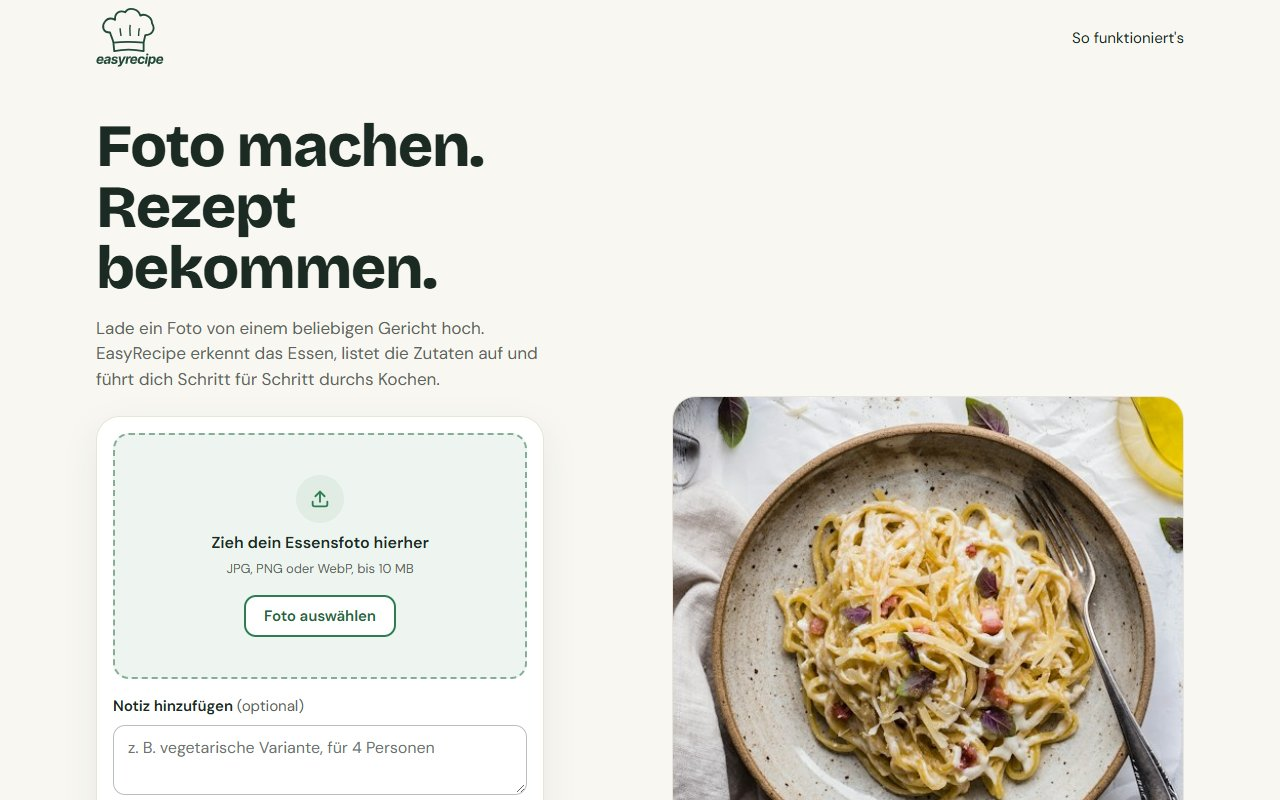
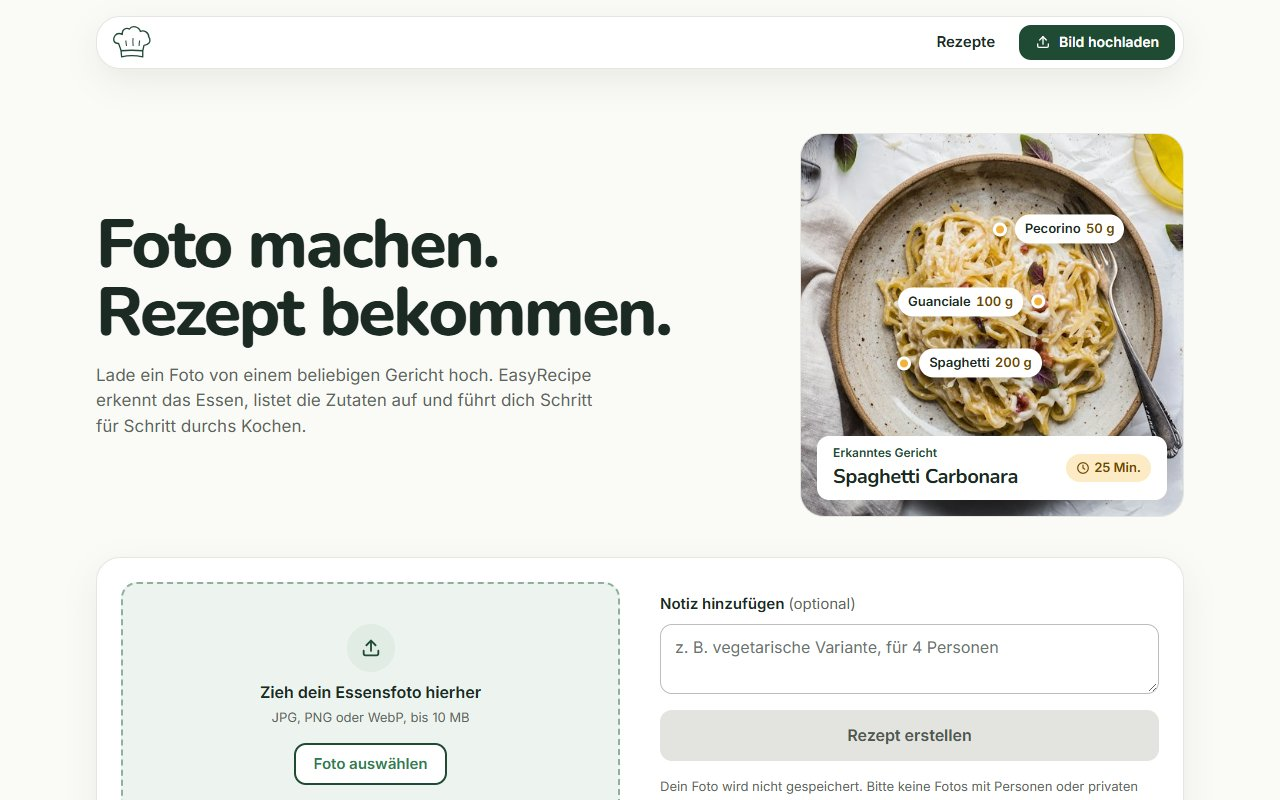
docs: update README and CLAUDE.md for Cloudflare, new screenshots
Privacy and limits in the README now name Cloudflare Workers AI with
Gemini as fallback. CLAUDE.md tech stack, data flow and privacy notes
match the code. Screenshots show the current design. HANDOFF.md is done.

diff --git a/CLAUDE.md b/CLAUDE.md
@@ -46,8 +46,9 @@ JavaScript, SQL, Git, wenig React-Praxis. **Ich will jeden Teil verstehen**, nic
 | Frontend | Vite + React (JavaScript) | schnell, verbreitet, passt zum Lernstand |
 | Styling | CSS Modules oder Tailwind (vorher kurz mit mir klären) | |
 | Backend | Vercel Serverless Functions im Ordner `/api` | API-Key bleibt serverseitig, kein eigener Server nötig |
-| KI | Google Gemini API, Free-Tier, offizielles SDK `@google/genai` | kostenlos, Vision-fähig, strukturierte Ausgabe |
-| Modell | aktuelles Gemini-**Flash**-Modell (Namen in den Docs prüfen) | schnell, günstig, reicht für Bilderkennung |
+| KI | Cloudflare Workers AI (Free-Tier, per `fetch`, kein SDK) | kostenlos ohne Kreditkarte, kein Training, keine Speicherung, Vision-fähig |
+| Modell | `@cf/mistralai/mistral-small-3.1-24b-instruct` | Bildverständnis, Apache-2.0-Lizenz (Llama-Modelle schließen EU-Entwickler aus) |
+| KI-Fallback | Google Gemini API (Flash-Modell, SDK `@google/genai`) | springt nur ein, wenn Cloudflare ausfällt; aus, wenn `GEMINI_API_KEY` fehlt |
 | Rate-Limit | Upstash Redis + `@upstash/ratelimit` (Free-Tier) | In-Memory-Limits funktionieren in Serverless nicht zuverlässig |
 | Tests | Vitest | leichtgewichtig, passt zu Vite |
 | Qualität | ESLint + Prettier | |
@@ -62,7 +63,8 @@ Lokale Entwicklung inkl. `/api`-Funktionen: `vercel dev`.
 ```
 easy-recipe/
 ├── api/
-│   └── analyze.js            # Serverless Function: Validierung, Rate-Limit, Gemini-Aufruf
+│   ├── analyze.js            # Serverless Function: Validierung, Rate-Limit, KI-Aufruf
+│   └── _lib/                 # cloudflare.js, gemini.js (Fallback), Schema, Prompt, Rate-Limit
 ├── src/
 │   ├── components/
 │   │   ├── ImageUpload.jsx   # Drag & Drop, Dateiauswahl, Vorschau
@@ -101,7 +103,8 @@ easy-recipe/
 4. Die Function:
    - validiert Eingaben (Typ, Größe, Beschreibungslänge)
    - prüft das Rate-Limit (pro IP + globales Tageslimit)
-   - ruft Gemini mit Bild, System-Prompt, Beschreibung und `responseSchema` auf
+   - ruft Cloudflare mit Bild, System-Prompt und Beschreibung auf (Timeout 25 s);
+     bei Fehler, Timeout oder ungültiger Antwort übernimmt Gemini (max. 30 s)
    - validiert die Antwort und gibt JSON zurück
 5. Frontend rendert Zutaten, Rezept und Schritte.
 
@@ -112,8 +115,9 @@ und verbrauchen kein Kontingent. Nur eigene Uploads gehen an die KI.
 
 ## 6. Antwortformat (JSON-Schema)
 
-Gemini muss strukturiert antworten (`responseMimeType: "application/json"` + `responseSchema`).
-Kein Fließtext.
+Die KI muss strukturiert antworten, kein Fließtext. Bei Cloudflare steht das Schema im Prompt
+(erzwungenes JSON funktioniert mit Mistral Small 3.1 nicht), die Antwort wird mit `isValidRecipe` geprüft.
+Gemini bekommt es als `responseSchema` (`responseMimeType: "application/json"`).
 
 ```json
 {
@@ -179,9 +183,10 @@ Der System-Prompt liegt im Backend, nicht im Frontend.
 
 ## 9. Datenschutz (DSGVO-Hinweis)
 
-- Hochgeladene Bilder werden zur Analyse an den KI-Anbieter übertragen (derzeit Google Gemini API).
-- Laut Gemini-Bedingungen dürfen öffentliche Apps für Nutzer im EWR nur den Bezahl-Tarif nutzen →
-  Umstieg auf Cloudflare Workers AI geplant (siehe `HANDOFF.md`). Datenschutzerklärung dann anpassen.
+- Hochgeladene Bilder werden zur Analyse an Cloudflare Workers AI übertragen, ersatzweise an Google Gemini.
+- Laut Gemini-Bedingungen dürfen öffentliche Apps für Nutzer im EWR nur den Bezahl-Tarif nutzen.
+  Deshalb ist Gemini nur Fallback; bewusst in Kauf genommen, weil die Seite kaum Besucher hat.
+- Neue Dienste oder Datenflüsse → `src/components/PrivacyPage.jsx` anpassen.
 - → Im UI einen kurzen, sichtbaren Hinweis neben dem Upload: keine Fotos mit Personen oder privaten Daten hochladen.
 - Im README unter "Datenschutz" erwähnen.
 
@@ -196,7 +201,7 @@ Jeder Fehlerfall bekommt eine verständliche Meldung im UI, keine rohen Fehlerte
 | falscher Dateityp / zu groß | Meldung direkt beim Upload, keine Anfrage |
 | kein Essen erkannt (`isFood: false`) | freundlicher Hinweis, neues Bild vorschlagen |
 | eigenes Rate-Limit (429) | "Limit erreicht, probier die Beispielbilder oder später nochmal" |
-| Gemini-Kontingent erschöpft | wie oben, Demo-Modus anbieten |
+| KI-Kontingent erschöpft (Cloudflare und Gemini) | wie oben, Demo-Modus anbieten |
 | Timeout / Netzwerkfehler | Meldung + "Erneut versuchen"-Button |
 | ungültige KI-Antwort | einmal serverseitig neu versuchen, danach Fehlermeldung |
 

diff --git a/README.md b/README.md
@@ -21,7 +21,8 @@ Foto von einem Gericht hochladen und ein Rezept bekommen: Die KI erkennt das Ger
 
 ## Datenschutz
 
-- Eigene Fotos werden zur Analyse an die Gemini API von Google übertragen. Im kostenlosen Tarif kann Google Eingaben zur Verbesserung seiner Dienste nutzen. Deshalb weist die App vor dem Upload darauf hin, keine Fotos mit Personen oder privaten Daten hochzuladen.
+- Eigene Fotos werden zur Analyse an Cloudflare Workers AI (Modell Mistral Small 3.1) übertragen. Cloudflare speichert Ein- und Ausgaben nicht und trainiert keine Modelle damit. Nur wenn Cloudflare gestört ist, springt ersatzweise die Gemini API von Google ein.
+- Die App weist vor dem Upload darauf hin, keine Fotos mit Personen oder privaten Daten hochzuladen.
 - EasyRecipe speichert keine Fotos und loggt weder Bilder noch Anfragen.
 - Für das Rate-Limit wird die IP-Adresse bei Upstash (Frankfurt) gespeichert und nach spätestens zwei Stunden automatisch gelöscht.
 - Keine Cookies, kein Tracking. Schriften und Bilder werden selbst gehostet.
@@ -32,7 +33,7 @@ Details stehen auf der Seite [/datenschutz](https://easy-recipe-sand.vercel.app/
 
 - Mengen und Zeiten sind Schätzungen aus einem Foto und keine exakten Rezeptangaben.
 - Gerichte können falsch erkannt werden, besonders bei ähnlich aussehendem Essen oder schlechtem Licht. Die KI gibt dann eine niedrigere Sicherheit an.
-- Das kostenlose Kontingent von Gemini ist begrenzt. An vollen Tagen helfen die Beispielbilder.
+- Das kostenlose Kontingent von Cloudflare Workers AI ist begrenzt (10.000 Neurons pro Tag, reicht für etwa 80 Analysen). An vollen Tagen helfen die Beispielbilder.
 - Das Rate-Limit gilt pro IP. Mehrere Personen im selben Netz (z. B. Firmen-WLAN) teilen sich ihr Limit.
 
 ## Ausblick
